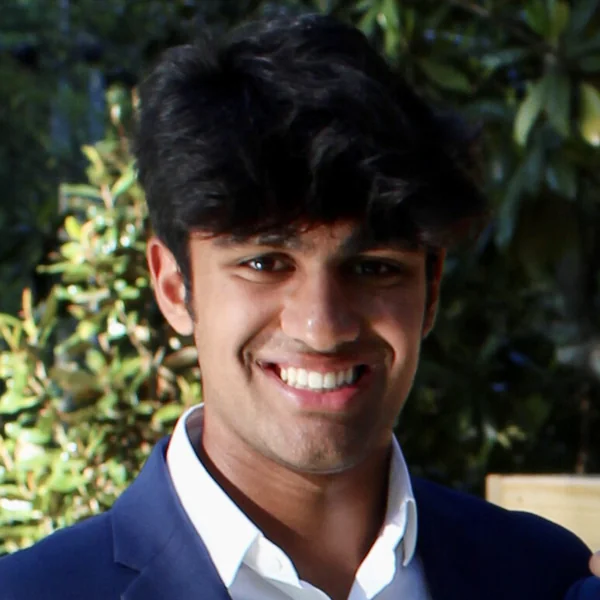
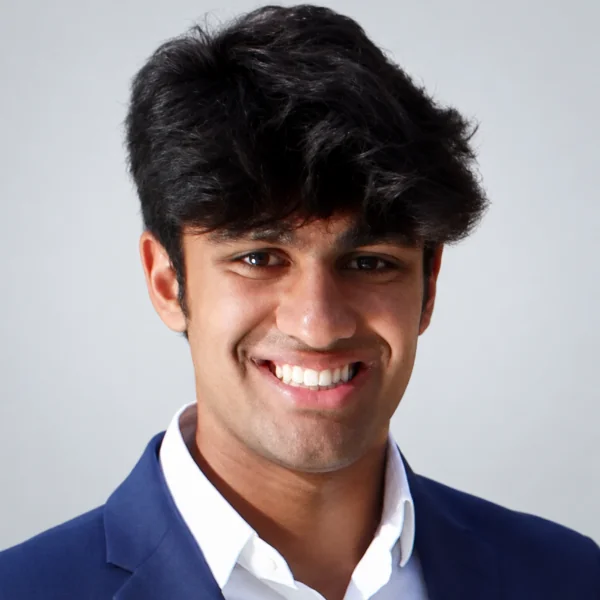
Uniform team headshots and lighter pages
- All 27 headshots share one studio backdrop and the same face framing
  (backgrounds standardized with gpt-image-2.5, faces aligned by eye line in code)
- Lazy-load headshots, sponsor logos and homepage people photos
- About page mission photo served as 960/1600px variants (762 KB -> 85-177 KB)

diff --git a/src/components/ui.tsx b/src/components/ui.tsx
@@ -67,7 +67,7 @@ export const SponsorMarquee: React.FC = () => (
         <div className={`marquee-track ${r ? "reverse" : ""}`}>
           {[...row, ...row].map((s, i) => (
             <div key={i} className="logo-chip" aria-hidden={i >= row.length}>
-              <img src={s.logo} alt={s.name} />
+              <img src={s.logo} alt={s.name} loading="lazy" decoding="async" />
             </div>
           ))}
         </div>
@@ -79,7 +79,7 @@ export const SponsorMarquee: React.FC = () => (
 // Headshot, or the person's initials when there's no photo
 export const Avatar: React.FC<{ name: string; src: string; className: string }> = ({ name, src, className }) => {
   const [failed, setFailed] = useState(false);
-  if (src && !failed) return <img src={src} alt={name} className={`${className} object-cover`} onError={() => setFailed(true)} />;
+  if (src && !failed) return <img src={src} alt={name} width={600} height={600} loading="lazy" decoding="async" className={`${className} object-cover`} onError={() => setFailed(true)} />;
   return (
     <div className={`${className} bg-[var(--accent)] text-white flex items-center justify-center display font-bold text-2xl`}>
       {name.split(" ").map(n => n[0]).join("")}

diff --git a/src/pages/AboutPage.tsx b/src/pages/AboutPage.tsx
@@ -62,7 +62,7 @@ const AboutPage: React.FC<AboutPageProps> = ({ setCurrentPage }) => {
             </p>
           </Reveal>
           <Reveal delay={150} className="rounded-[24px] overflow-hidden min-h-[360px]">
-            <img src="/about/mission.webp" alt="EEVM event" className="w-full h-full object-cover" style={{ objectPosition: "center 70%" }} />
+            <img src="/about/mission-w1600.webp" srcSet="/about/mission-w960.webp 960w, /about/mission-w1600.webp 1600w" sizes="(min-width: 1024px) 50vw, 100vw" loading="lazy" decoding="async" alt="EEVM event" className="w-full h-full object-cover" style={{ objectPosition: "center 70%" }} />
           </Reveal>
         </div>
       </section>

diff --git a/src/pages/HomePage.tsx b/src/pages/HomePage.tsx
@@ -192,7 +192,7 @@ const HomePage: React.FC<HomePageProps> = ({ setCurrentPage }) => {
             <div key={r} className={`team-track ${r ? "reverse" : ""}`}>
               {row.map(p => (
                 <figure key={p.name} className="team-card">
-                  <img src={p.imagePath} alt={p.name} />
+                  <img src={p.imagePath} alt={p.name} loading="lazy" decoding="async" />
                   <figcaption className="mt-3">
                     <div className="font-semibold">{p.name}</div>
                     <div className="muted text-sm">{p.role}</div>
